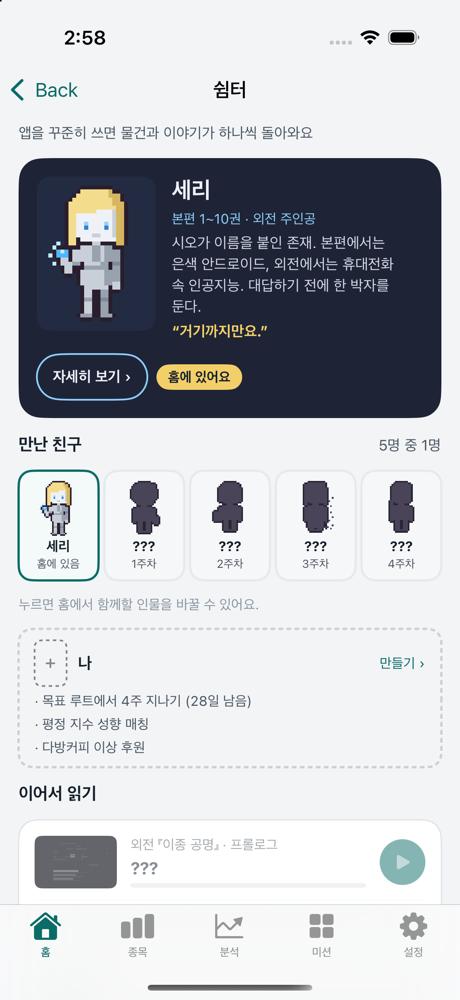
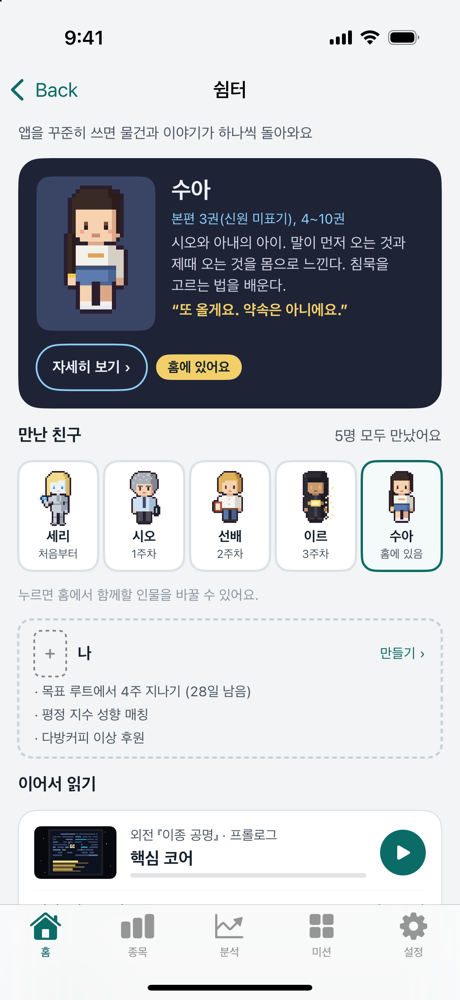
입구 시안: 위젯 말풍선 빼고 수아·시오를 아이폰 밖에, 대사는 열 때마다 바뀜, 앱 화면은 수아 홈·다섯 친구 다 연 모습으로

diff --git a/index.html b/index.html
@@ -26,7 +26,7 @@
 <meta name="twitter:description" content="수량만 넣으면, 내 자산의 내일이 보여요. 평가액, 본전·목표까지의 길과 확률을 보여 주는 아이폰 앱.">
 <meta name="twitter:image" content="https://naeilo.com/og.png">
 <script type="application/ld+json">{"@context":"https://schema.org","@type":"MobileApplication","name":"naeilo","alternateName":"내일로","url":"https://naeilo.com/","description":"보유 주식 수량만 넣으면 원화 평가액, 본전·목표까지의 길, 그 길에 닿을 확률을 보여 주는 자산 관찰 앱. 종목 추천·투자 자문이 아닙니다.","applicationCategory":"FinanceApplication","operatingSystem":"iOS","inLanguage":"ko"}</script>
-<link rel="stylesheet" href="entry.css?v=20261015b">
+<link rel="stylesheet" href="entry.css?v=20261015c">
 </head>
 <body>
 <header class="top wrap">
@@ -42,6 +42,8 @@
       <p class="lead">보유 수량만 넣으면 내 자산이 홈 화면에 들어와요.<br>지나온 추이와 앞으로 2~3년의 길도 함께.</p>
       <div class="cta"><a class="btn" href="#get">출시 알림 받기</a><a class="btn ghost" href="#try">직접 해보기</a></div>
     </div>
+    <div class="stage">
+    <figure class="pal sua"><p class="say" id="saySua">조용히 볼게요. 내린 날이에요.<b>수아</b></p><img src="img/char/w_sua.png" alt="수아"></figure>
     <div class="home" role="img" aria-label="아이폰 홈 화면에 수아의 자산 추이 위젯과 시오의 본전 진행 위젯이 있어요. 금액은 가려져 있어요.">
       <div class="home-screen">
         <div class="sbar"><span>9:41</span><span class="sb-ic"></span></div>
@@ -54,7 +56,6 @@
               <svg class="wspark" viewBox="0 0 80 30" aria-hidden="true"><polyline points="3,8 11,6 19,10 27,9 35,13 43,11 51,15 59,14 67,19 75,24" /><g><circle cx="3" cy="8" r="2"/><circle cx="11" cy="6" r="2"/><circle cx="19" cy="10" r="2"/><circle cx="27" cy="9" r="2"/><circle cx="35" cy="13" r="2"/><circle cx="43" cy="11" r="2"/><circle cx="51" cy="15" r="2"/><circle cx="59" cy="14" r="2"/><circle cx="67" cy="19" r="2"/><circle cx="75" cy="24" r="2" class="last"/></g></svg>
               <img class="wspr" src="img/char/w_sua.png" alt="">
             </div>
-            <p class="say">조용히 볼게요. 내린 날이에요.<b>수아</b></p>
           </div>
           <div class="wcell">
             <div class="widget w-sio">
@@ -64,12 +65,13 @@
               <div class="wsub">남은 ••••<br>어제 <span class="dn">−0.8%p</span></div>
               <img class="wspr raise" src="img/char/w_sio_raise.png" alt="">
             </div>
-            <p class="say">−0.8. 급할 거 없어.<b>시오</b></p>
           </div>
         </div>
         <div class="icons" aria-hidden="true"><i></i><i></i><i></i><i></i><i></i><i></i><i></i><i></i></div>
         <div class="dock" aria-hidden="true"><i></i><i></i><i></i><i></i></div>
       </div>
+    </div>
+    <figure class="pal sio"><p class="say" id="saySio">−0.8. 급할 거 없어.<b>시오</b></p><img src="img/char/w_sio.png" alt="시오"></figure>
     </div>
   </section>
 
@@ -78,9 +80,9 @@
     <h2>앱을 열면, 인물이 먼저 말을 걸어요</h2>
     <p class="muted">세리·시오·선배·이르·수아. 다섯 사람이 오늘 숫자를 각자 말투로 전해 줘요. 사라·팔라는 말은 하지 않아요.</p>
     <div class="rail">
-      <figure><div class="phone"><img src="img/app-home.png" alt="naeilo 앱 홈 화면. 세리가 오늘 숫자를 말해 줘요" loading="lazy"></div><figcaption>홈: 오늘 숫자와 인물의 한마디</figcaption></figure>
-      <figure><div class="phone"><img src="img/app-people.png" alt="쉼터 화면. 만난 인물과 아직 못 만난 인물" loading="lazy"></div><figcaption>쉼터: 꾸준히 쓰면 한 명씩 만나요</figcaption></figure>
-      <figure><div class="phone"><img src="img/app-mission.png" alt="미션 화면" loading="lazy"></div><figcaption>미션: 1000칸을 매일 한 칸씩</figcaption></figure>
+      <figure><div class="phone"><img src="img/app-home.png?v=2" alt="naeilo 앱 홈 화면. 수아가 오늘 숫자를 말해 줘요" loading="lazy"></div><figcaption>홈: 오늘 숫자와 인물의 한마디</figcaption></figure>
+      <figure><div class="phone"><img src="img/app-people.png?v=2" alt="쉼터 화면. 다섯 친구를 모두 만났어요" loading="lazy"></div><figcaption>쉼터: 꾸준히 쓰면 한 명씩 만나요</figcaption></figure>
+      <figure><div class="phone"><img src="img/app-mission.png?v=2" alt="미션 화면" loading="lazy"></div><figcaption>미션: 1000칸을 매일 한 칸씩</figcaption></figure>
     </div>
     <p class="note">화면 속 금액은 샘플 자료(가상 종목 DRNK·QQQ)예요.</p>
   </section>
@@ -143,6 +145,6 @@
   <span>© naeilo</span>
 </footer>
 
-<script src="entry.js?v=20261015b"></script>
+<script src="entry.js?v=20261015c"></script>
 </body>
 </html>

diff --git a/entry.css b/entry.css
@@ -28,8 +28,8 @@ section { margin-bottom: 56px; }
 img.px, .wspr, .bye img { image-rendering: pixelated; }
 
 /* ---------------------------------------------------------------- 1. 맨 위: 홈 화면 위젯 */
-.hero { display: grid; grid-template-columns: 1fr auto; gap: 40px; align-items: center; padding-top: 28px; }
-.hero h1 { font-size: clamp(2.2rem, 7vw, 3.4rem); line-height: 1.15; margin: 0; letter-spacing: -0.04em; }
+.hero { display: grid; grid-template-columns: 1fr auto; gap: 24px; align-items: center; padding-top: 28px; }
+.hero h1 { white-space: nowrap; font-size: clamp(2.2rem, 4.6vw, 3.2rem); line-height: 1.15; margin: 0; letter-spacing: -0.04em; }
 .lead { color: var(--muted); font-size: 1.0625rem; max-width: 460px; margin: 16px 0 24px; }
 .cta { display: flex; gap: 10px; flex-wrap: wrap; }
 
@@ -63,10 +63,15 @@ img.px, .wspr, .bye img { image-rendering: pixelated; }
 .wspr { position: absolute; right: -6px; bottom: -6px; height: 66px; }
 .wspr.raise { bottom: 2px; height: 62px; }
 
-/* 위젯 아래 인물의 한마디 (홈 화면의 앱 이름 자리) */
-.say { position: relative; margin: 10px 0 0; padding: 7px 9px; border-radius: 12px; background: rgba(255, 255, 255, 0.92); color: #15202b; font-size: 11px; line-height: 1.35; font-weight: 600; }
-.say::before { content: ""; position: absolute; top: -5px; right: 22px; border: 6px solid transparent; border-top: 0; border-bottom-color: rgba(255, 255, 255, 0.92); }
-.say b { display: block; font-size: 10px; color: #5d6e7b; font-weight: 600; margin-top: 2px; }
+/* 아이폰 밖의 두 인물과 말풍선 (대사는 열 때마다 바뀜) */
+.stage { display: flex; align-items: flex-start; }
+.pal { margin: 70px 0 0; width: 128px; display: flex; flex-direction: column; align-items: center; flex: 0 0 auto; }
+.pal img { height: 112px; image-rendering: pixelated; }
+.pal.sua { margin-right: -6px; }
+.pal.sio { margin-left: -6px; }
+.say { position: relative; margin: 0 0 10px; padding: 8px 10px; border-radius: 14px; background: var(--card); border: 1px solid var(--line); color: var(--text); font-size: 12.5px; line-height: 1.4; font-weight: 600; width: 100%; min-height: 3.6em; }
+.say::after { content: ""; position: absolute; bottom: -6px; left: calc(50% - 6px); width: 10px; height: 10px; background: var(--card); border-right: 1px solid var(--line); border-bottom: 1px solid var(--line); transform: rotate(45deg); }
+.say b { display: block; font-size: 10.5px; color: var(--muted); font-weight: 600; margin-top: 2px; }
 .icons { display: grid; grid-template-columns: repeat(4, 1fr); gap: 20px 16px; margin-top: 26px; }
 .icons i, .dock i { display: block; aspect-ratio: 1; border-radius: 14px; background: rgba(255, 255, 255, 0.2); }
 .dock { position: absolute; left: 12px; right: 12px; bottom: 12px; display: grid; grid-template-columns: repeat(4, 1fr); gap: 16px; padding: 12px 14px; border-radius: 28px; background: rgba(255, 255, 255, 0.16); }
@@ -139,6 +144,10 @@ footer a { color: var(--muted); }
 @media (max-width: 760px) {
   .hero, .try { grid-template-columns: 1fr; gap: 28px; }
   .home, .iphone { justify-self: center; }
+  .stage { display: grid; grid-template-columns: 1fr 1fr; justify-items: center; column-gap: 12px; }
+  .stage .home { grid-column: 1 / -1; grid-row: 1; }
+  .pal { margin: -40px 0 0; position: relative; width: 150px; }
+  .pal.sua, .pal.sio { margin-left: 0; margin-right: 0; }
   /* 홈 화면은 위쪽(위젯과 아이콘 한 줄)만 보이고 아래는 잘라 낸다 */
   .home { border-radius: 48px 48px 0 0; padding-bottom: 0; -webkit-mask-image: linear-gradient(#000 80%, transparent); mask-image: linear-gradient(#000 80%, transparent); }
   .home-screen { aspect-ratio: 9 / 11; border-radius: 38px 38px 0 0; }
@@ -146,4 +155,5 @@ footer a { color: var(--muted); }
 }
 @media (max-width: 360px) {
   .home, .iphone { width: 100%; }
+  .pal { width: 130px; }
 }

diff --git a/entry.js b/entry.js
@@ -79,6 +79,18 @@
     finally { btn.disabled = false; }
   }
 
+
+  // ------------------------------------------------------------ 맨 위 두 인물의 한마디: 앱 위젯의 내린 날 대사(lines_ko.json widget.down)에서 골라, 열 때마다 하나씩
+  const SAYS = {
+    sua: ["조용히 볼게요. 내린 날이에요.", "내린 날이에요. 천천히 봐요.", "순서대로요. 내린 날이에요.", "여기 있어요. 내린 날이에요.", "내린 날이에요. 한 박자 쉬어요.",
+      "조용히 볼게요. 내린 날이에요. 기록해 둘게요.", "왔어요. 내린 날이에요. 제때 오는 게 느껴져요.", "제때 오셨어요. 내린 날이에요. 천천히 봐요.", "내린 날이에요. 기록해 둘게요."],
+    sio: ["−0.8. 급할 거 없어.", "음. −0.8. 됐어.", "봤어. −0.8. 셌어.", "짧게. −0.8. 내일도 셀게.", "하나. −0.8. 급할 거 없어.",
+      "그래. −0.8. 그거면 돼.", "오늘도. −0.8. 세어 둘게.", "왔네. −0.8. 셌어.", "−0.8. 셌어. 됐어."],
+  };
+  [["#saySua", SAYS.sua, "수아"], ["#saySio", SAYS.sio, "시오"]].forEach(([sel, l, who]) => {
+    const el = $(sel); if (el) el.innerHTML = `${l[Math.floor(Math.random() * l.length)]}<b>${who}</b>`;
+  });
+
   // ------------------------------------------------------------ 시작
   document.querySelectorAll(".phone img").forEach((img) => img.addEventListener("error", () => img.classList.add("miss")));
   $("#fcMonths").addEventListener("input", draw);

diff --git a/docs/HANDOFF.md b/docs/HANDOFF.md
@@ -29,7 +29,7 @@
 - 실기기 확인: 앱 시작 속도, 미션 예보 카드. (토스 시세는 2026-10-15 웹·앱 확인됨)
 - ~~웹 쪽 따라가기~~ → 2026-10-15 결정으로 멈춤. 웹은 "입구"(앱 소개 + 수량 → 평가액·본전/목표 확률 한 장 + 앱 받기)로 줄인다. 입구 기획 끝(`docs/plans/web-entrance.md`). 다음: 2 입구 만들기(루트 `index.html`·`entry.js`) · 3 웹 정리(`web/` noindex·앱의 "PC naeilo.com" 안내·parity 규칙), 파일이 안 겹쳐 동시 진행 가능. 앱 받기 버튼(출시 알림 신청/곧 나와요/TestFlight)은 Drinker 결정 대기.
 - 2 입구 만들기 (2026-10-15, 초안 PR): 루트 `index.html`·`entry.js`·`entry.css`가 입구. 해 보기 카드는 `web/model.js`로 웹 전망과 같은 식(샘플 DRNK 4·QQQ 1, 목표 500만에서 목표 확률 47%로 웹과 같음), worker에서 3,000경로. 앱 받기 = 출시 알림 신청(워커 `/notify`, KV `n:`, 목록 `/notify/list`는 ADMIN_KEY). **워커 수동 배포 전에는 신청이 "지금은 받을 수 없어요"로 나옴** (Drinker가 `proxy/cloudflare-worker.js` 배포 한 번). 앱 화면 4장은 시뮬레이터 샘플(`img/app-*.png`), 미션 판 1000칸은 처음엔 잠겨 있어 미션 화면으로 찍음. 입구 샘플 목표(500만, 적립 없음)는 앱 샘플(2,100만, 월 30만 적립)과 다름. 입구는 국내 주식 합계·현금·적립을 받지 않음.
-- 입구 시안 디자인 (2026-10-15, 브랜치 `claude/project-thread-gnzeiz`): 첫 페이지를 "귀여운 주식 위젯"으로. 맨 위는 금액을 가린 홈 화면 속 수아(자산 추이)·시오(본전 진행) 위젯을 HTML로 그림(앱 `CharWidgets.swift` 색·배치, 그림은 `img/char/`). 그 아래 인물 나오는 앱 화면 3장(`img/app-home·people·mission.png`). 직접 해보기는 아이폰 틀 속 목표일 전망: 종목 없는 예시 자산(1,000만, 연 7%·흔들림 18% 로그정규)으로 목표일 막대를 밀면 가운데 금액·10번 중 9번 범위·목표 1,500만 확률이 바뀜. 앱 몬테카를로가 아니라 닫힌 식이라 앱과 숫자 기준이 다름(예시라서). 예전 해 보기(종목+수량 입력)는 지움, `model.js`·`stocks.js`도 안 불러옴. 위젯 대사는 시안이라 위젯 밖 말풍선으로 붙임(앱 자산 추이·본전 진행 위젯에는 말풍선이 없음).
+- 입구 시안 디자인 (2026-10-15, 브랜치 `claude/project-thread-gnzeiz`): 첫 페이지를 "귀여운 주식 위젯"으로. 맨 위는 금액을 가린 홈 화면 속 수아(자산 추이)·시오(본전 진행) 위젯을 HTML로 그림(앱 `CharWidgets.swift` 색·배치, 그림은 `img/char/`). 그 아래 인물 나오는 앱 화면 3장(`img/app-home·people·mission.png`). 직접 해보기는 아이폰 틀 속 목표일 전망: 종목 없는 예시 자산(1,000만, 연 7%·흔들림 18% 로그정규)으로 목표일 막대를 밀면 가운데 금액·10번 중 9번 범위·목표 1,500만 확률이 바뀜. 앱 몬테카를로가 아니라 닫힌 식이라 앱과 숫자 기준이 다름(예시라서). 예전 해 보기(종목+수량 입력)는 지움, `model.js`·`stocks.js`도 안 불러옴. 위젯은 말풍선 없이 두고, 수아·시오는 아이폰 밖에 서서 말풍선으로 말함. 대사는 앱 `lines_ko.json` widget.down 에서 고른 9개씩을 `entry.js`에 넣어 열 때마다 하나 고름. 앱 화면 3장은 시뮬레이터 Debug `-devAllTest YES`(다섯 친구 다 열림)로 홈 인물 수아에 두고 9:41로 다시 찍음.
 - 웹 쉬운 화면 개편 (계획 `docs/plans/web-tabs.md`): 1 탭 구조(홈·종목·분석·설정) 코드 끝, PR 대기(브랜치 `claude/project-thread-99ritl`; 분석 목록 한 줄 요약은 아직 고정 문구, 시세 수집 카드는 개발자 모드·내 PC 서버에서만) → 2 홈·내 길: 첫 질문(마이너스=회복 길 본전 카드만 / 플러스=목표 길 목표 카드만, `S.state.route`) 코드 끝, PR 대기(브랜치 `claude/web-home-route`, #218 위에 쌓음. 앱과 루트 동기화는 아직 안 함) → 2-2 홈 카드 줄이기: 도달 예상(구성 비교 막대·비중 바꾸기)과 목표 진행(숫자 5칸·기간 버튼·막대 차트·공유 이미지)을 결론 한 줄 + "자세히" 안으로, PR 대기(브랜치 `claude/project-thread-8wtmoi`, #219 위에 쌓음) → 3 전망: 앱 목표일 전망과 같은 구성(헤드라인 → 버튼 3개+추세 슬라이더 한 축 → 가장 그럴듯한 금액·10번 중 9번 범위 → 0부터 선형 축 그래프(고른 시나리오 띠 + 다른 둘 점선) → 세 가지 미래 표 → 전망을 흔들 일정 4개 → 자세히 보기(한 번이라도 넘을 확률·만약에·숫자 더 보기·종목별 그래프·계산 옵션)), PR 대기(브랜치 `claude/project-thread-fuubi8`, #220 위에 쌓음. 고른 버튼은 브라우저에만 `naeilo-fc-lens`. 앱의 일정 켜고 끄기 토글은 웹에 없음: 켜 둔 외부 요인이 늘 반영, 외부 요인 화면 링크. 회복 길도 웹은 목표일 기준) → 4 종목: 앱 종목 목록과 같은 틀(지금 평가액·산 돈 대비 카드 → "지금 종목을 N 전부터 가졌다면" 그래프·기간 5개(기본 1개월) → 미국/국내 묶음 줄, %는 늘 산 가격 대비, 기본 정렬 평가액 큰 순, 표·연필·✕ 없앰. 줄을 누르면 아래에 지금 가격·비중·고치기·지우기), PR 대기(브랜치 `claude/project-thread-s6dqbq`, #221 위에 쌓음. 종목 상세 화면·회사 소개는 웹에 아직 없음) → 5 배당·세금·환율: 앱 DividendView·FxImpactView와 같은 구성(배당·세금 = 받는 배당/낼 양도세 두 칸, 한 달 평균 세후 배당 → 달별·종목별 → 세금 영수증 → 2,000만원 기준 / 올해 판 이익 양도세 → 더 팔면 슬라이더 → 알아두면 좋은 것. 환율 = 한 줄 요약 → 지금 환율·지난 흐름 70%+1년 범위 30% 그래프·기간 4개 → 환율이 바뀌면 내 자산은(슬라이더·1,250~1,500 버튼·목표/본전 막대) → 자세히(4칸 + 옛 KPI·추세 그래프·표)), PR 대기(브랜치 `claude/project-thread-6j21kq`, #222 위에 쌓음. 분석 목록 한 줄 요약은 아직 고정 문구). 웹 쉬운 화면 1~5단계 코드 끝.
 - 3 웹 정리 (2026-10-15, 브랜치 `claude/project-thread-agm9jy`, 초안 PR): `web/index.html`에 `noindex`. 앱에서 "PC naeilo.com"으로 보내던 안내(거래 기록·증권사 파일·기기 동기화·사용 방법 PC 줄·인터미션 PC 웹 할 일) 지움. 앱 시작 3단계는 "기기 동기화 켜기" → "오늘의 1분 한 번 해 보기"(앱에서 했어요 버튼). 설정의 기기 동기화 줄은 이미 켠 사람에게만 보임(코드 남김). CLAUDE.md 화면 parity·`?v=` 규칙을 입구 기준으로 줄임. 남은 것: "앱으로 옮겨 가요 · 입구로" 띠는 2번(입구)이 머지된 뒤 `web/index.html`·`web/app.js`에 켠다. iOS 빌드는 Mac에서 확인.
 - 웹 쉬운 화면 개편(`docs/plans/web-tabs.md`): 1~5단계 PR #218~#223 모두 머지됨, 남은 단계 없음(입구 결정으로 끝). #224(웹 길 동기화)·#226(웹 국내 종목별)은 닫힘, 다시 열지 않는다.
